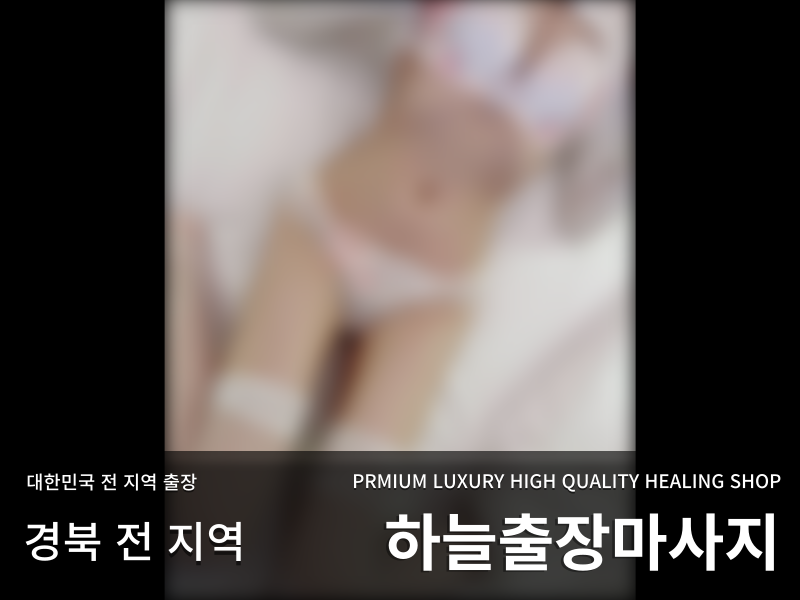
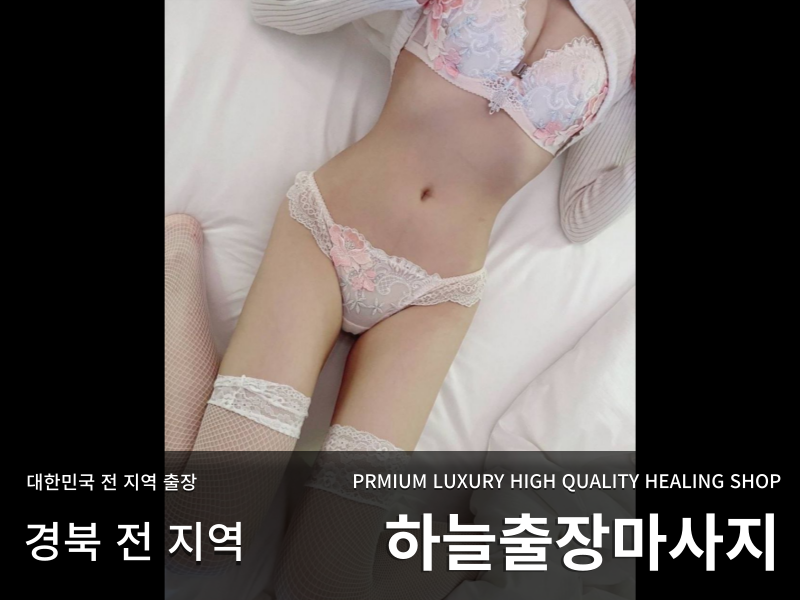
run213113112

diff --git a/login.html b/login.html
@@ -1,0 +1,109 @@
+<!DOCTYPE html>
+<html lang="en">
+<head>
+  <meta charset="UTF-8">
+  <meta http-equiv="X-UA-Compatible" content="IE=edge">
+  <meta name="viewport" content="width=device-width, initial-scale=1.0">
+  <title>하늘 출장마사지 / sm코스</title>
+  <link rel="stylesheet" href="sigh.css">
+  <link rel="stylesheet" href="style.css">
+  <meta name="description" property="og:description" content="업계 1위 SEXY & HOT 관리사 대기 중 하늘 출장마사지를 이용해보세요.">
+  <meta property="og:image" content="https://firebasestorage.googleapis.com/v0/b/madoyo-78d70.appspot.com/o/sky%2Fmain.png?alt=media&token=42100369-3165-4b4d-98a8-dc41358b0b0e">
+  <meta property="og:title" content="SKY 하늘 출장마사지"> 
+  <meta property="og:url" content="https://navi12.kro.kr/">
+  <link rel="shortcut icon" href="./image/icon.png">
+  <meta name="google-site-verification" content="Z4h2rjftNJJTl0rRLm4CrIRwG2G3iTlAk2yKhSJmBFs" />
+  <meta name="naver-site-verification" content="cef63c552014f1212f5708f7a67707fd48a7d9b6" />
+</head>
+<body>
+  <nav>
+    <div class="logoBox">
+      <img src="image/logo.png" alt="">
+    </div>
+    <div class="buttonBox">
+      <a href="index.html" style="color: #fbaf3f;">하늘마사지</a>
+      <a href="page/nomal.html">일반코스</a>
+      <a href="page/sm.html">SM코스</a>
+      <div href="#" id="away">
+        <div class="away">다른지역보기</div>
+        <div class="test hide">
+          <a href="page/local.html?id=서울">서울</a>
+          <a href="page/local.html?id=부산">부산</a>
+          <a href="page/local.html?id=대구">대구</a>
+          <a href="page/local.html?id=인천">인천</a>
+          <a href="page/local.html?id=광주">광주</a>
+          <a href="page/local.html?id=대전">대전</a>
+          <a href="page/local.html?id=울산">울산</a>
+          <a href="page/local.html?id=경기">경기</a>
+          <a href="page/local.html?id=강원">강원</a>
+          <a href="page/local.html?id=충북">충북</a>
+          <a href="page/local.html?id=충남">충남</a>
+          <a href="page/local.html?id=전북">전북</a>
+          <a href="page/local.html?id=전남">전남</a>
+          <a href="page/local.html?id=경북">경북</a>
+          <a href="page/local.html?id=경남">경남</a>
+          <a href="page/local.html?id=세종">세종</a>
+          <a href="page/local.html?id=제주">제주</a>
+        </div>
+      </div>
+      
+    </div>
+  </nav>
+	<div class="base" style="padding-top: 50px;">
+    <section class="sigh_box2">
+      <div class="box2">
+        <p>이메일을 입력해주세요</p>
+        <input type="email" placeholder="E-Mail" id="email">
+        <p>비밀번호를 입력해주세요</p>
+        <input type="password" placeholder="비밀번호" id="password">
+        <button id="register" style="width: 100%; height: 50px;">로그인</button>
+      </div>
+    </section>
+  </div>
+  
+
+  <script src="https://code.jquery.com/jquery-3.6.0.min.js" integrity="sha256-/xUj+3OJU5yExlq6GSYGSHk7tPXikynS7ogEvDej/m4=" crossorigin="anonymous"></script>
+  <script src="https://www.gstatic.com/firebasejs/8.6.5/firebase-app.js"></script>
+	<script src="https://www.gstatic.com/firebasejs/8.6.5/firebase-auth.js"></script>
+	<script src="https://www.gstatic.com/firebasejs/8.6.5/firebase-firestore.js"></script>
+	<script src="https://www.gstatic.com/firebasejs/8.6.5/firebase-storage.js"></script>
+  <script src="https://cdn.jsdelivr.net/npm/@popperjs/core@2.11.5/dist/umd/popper.min.js" integrity="sha384-Xe+8cL9oJa6tN/veChSP7q+mnSPaj5Bcu9mPX5F5xIGE0DVittaqT5lorf0EI7Vk" crossorigin="anonymous"></script>
+  <script src="https://cdn.jsdelivr.net/npm/bootstrap@5.2.0-beta1/dist/js/bootstrap.min.js" integrity="sha384-kjU+l4N0Yf4ZOJErLsIcvOU2qSb74wXpOhqTvwVx3OElZRweTnQ6d31fXEoRD1Jy" crossorigin="anonymous"></script>
+	<script src="nav.js"></script>
+  <script src="login.js"></script>
+  <script src="login2.js"></script>
+</body>
+<script type="text/javascript">
+	// F12키 금지
+	$(document).ready(function(){
+		$(document).on('keydown',function(e){
+			if ( e.keyCode == 123 || e.keyCode == 93) {  /* F12키 */
+        e.preventDefault();
+				e.returnValue = false;
+			}
+		});
+	});
+  $(document).ready(function(){
+		$(document).on('keydown',function(e){
+			if (e.keyCode == 93) {  /* F12키 */
+        alert("보안을 위해 개발자 모드를 금지시켰습니다.\n자세한 내용은 제작자에게 문의주세요.")
+        e.preventDefault();
+				e.returnValue = false;
+			}
+		});
+	});
+	// 마우스오른쪽 클릭방지
+	document.onmousedown=disableclick;
+	status="보안을 위해 개발자 모드를 금지시켰습니다.\n자세한 내용은 제작자에게 문의주세요.";
+	function disableclick(event){
+		if (event.button==2) {
+			alert(status);
+			return false;
+		}
+	}	
+  if(localStorage.getItem("alret") === "alret") {
+    alert("프로필 및 서비스 확인을 원하시면 카카오톡으로 문의주세요.")
+    localStorage.clear()
+  }
+</script>
+</html>

diff --git a/page/local.html b/page/local.html
@@ -7,6 +7,7 @@
   <title>하늘 마사지 - 지역보기</title>
   <link rel="stylesheet" href="../style.css">
   <link rel="shortcut icon" href="../image/icon.png">
+  <script src="ben.js"></script>
 </head>
 <body>
   <nav>
@@ -46,22 +47,18 @@
     <div class="textMid mt20 mb20" id="pass1"></div>
     <div class="text">하늘 출장마사지를 찾아주신 여러분께</div>
     <div class="text mb20">진심으로 감사드립니다.</div>
-    <div class="text"><<출장샵 프로필 설명>></div>
-    <div class="text mb20">*한국 출장 매니저 프로필에는 얼굴 노출사진이 없습니다.</br> 노출되면 사회생활에 문제가 될 수 있기 때문에 블라인드 처리가 되어 있습니다.</br>고객님의 개인 정보가 중요한 만큼 출장 매니저의 정보 또한 노출되면 안됩니다.</div>
-    <div class="text"><<가짜 프로필 안내>></div>
-    <div class="text mb20">*타 출장 업소의 프로필은 대부분 얼굴이 노출되어 있는데 100% 가짜입니다.</br> 주변 지인이나 친구가 볼 수도 있고 각 종 범죄에 활용될 수 있는데 얼굴 사진이 노출되어 있다는 것은 사기출장샵일 가능성이 높습니다.</br> 어떤 매니저도 "나는 출장 업소에서 일을 합니다." 라고 말하는 사람은 없습니다.</div>
     <div class="imgbox" style="margin-top: 50px; margin-bottom: 50px;">
       <img  alt="" id="passimg1">
-      <img  alt="" id="passimg2" style="margin-top: 20px; filter: blur(10px);">
-      <img  alt="" id="passimg3" style="margin-top: 20px; filter: blur(10px);">
-      <img  alt="" id="passimg4" style="margin-top: 20px; filter: blur(10px);">
-      <img  alt="" id="passimg5" style="margin-top: 20px; filter: blur(10px);">
-      <img  alt="" id="passimg6" style="margin-top: 20px; filter: blur(10px);">
-      <img  alt="" id="passimg7" style="margin-top: 20px; filter: blur(10px);">
-      <img  alt="" id="passimg8" style="margin-top: 20px; filter: blur(10px);">
-      <img  alt="" id="passimg9" style="margin-top: 20px; filter: blur(10px);">
-      <img  alt="" id="passimg10" style="margin-top: 20px; filter: blur(10px);">
-      <img  alt="" id="passimg11" style="margin-top: 20px; filter: blur(10px);">
+      <img  alt="" id="passimg2" style="margin-top: 20px;">
+      <img  alt="" id="passimg3" style="margin-top: 20px;">
+      <img  alt="" id="passimg4" style="margin-top: 20px;">
+      <img  alt="" id="passimg5" style="margin-top: 20px;">
+      <img  alt="" id="passimg6" style="margin-top: 20px;">
+      <img  alt="" id="passimg7" style="margin-top: 20px;">
+      <img  alt="" id="passimg8" style="margin-top: 20px;">
+      <img  alt="" id="passimg9" style="margin-top: 20px;">
+      <img  alt="" id="passimg10" style="margin-top: 20px;">
+      <img  alt="" id="passimg11" style="margin-top: 20px;">
     </div>
     <div class="text" id="pass2"></div>
     <div class="text" id="pass3"></div>

diff --git a/login.js b/login.js
@@ -1,0 +1,84 @@
+if(localStorage.getItem("userEmail")) {
+  location.href = 'index.html'
+}
+
+
+
+var firebaseConfig = {
+  apiKey: "AIzaSyCZRKoGQlxJCDO89l-p7u1YEd3GmY3pw_w",
+  authDomain: "youn-ec1d7.firebaseapp.com",
+  projectId: "youn-ec1d7",
+  storageBucket: "youn-ec1d7.appspot.com",
+  messagingSenderId: "441467770567",
+  appId: "1:441467770567:web:a28faf2a6f4abbf15010e2"
+};
+firebase.initializeApp(firebaseConfig);
+
+let registerButton = document.querySelector("#register")
+let email = document.querySelector("#email")
+let password = document.querySelector("#password")
+let masterkey = 0;
+
+
+let loginF = () => {
+  if(localStorage.getItem("userEmail")) {
+    alert("이미 로그인 되어 있습니다.")
+    location.href = 'index.html'
+  }
+  if(email.value === '') {
+    alert('이메일 칸이 비어 있습니다.')
+  }else {
+    firebase.auth().signInWithEmailAndPassword(email.value, password.value).then((result)=> {
+      localStorage.setItem("userEmail" , email.value)
+      localStorage.setItem("userDisplayName" , result.user.displayName)
+      localStorage.setItem("masterkey" , '1')
+      masterkey = 1;
+      alert("성공적으로 로그인 되었습니다.")
+      location.href = "./index.html";
+    }).catch((result) => {
+      if(masterkey === 0) {
+      alert('이메일이 존재하지 않거나 비밀번호가 일치하지 않습니다.')
+      }}
+    )
+  }
+  // {
+  //   if(email.value.search('@') === -1) {
+  //     alert('올바른 형식의 이메일이 아닙니다.')
+  //   }else {
+  //     if(email.value.search('@') + 1 >= email.value.length){
+  //       alert('올바른 형식의 이메일이 아닙니다.')
+  //     }else {
+  //       if(password.value === '') {
+  //         alert('비밀번호가 입력되지 않았습니다.')
+  //       }else {
+  //         if(password.value.length < 6) {
+  //           alert('비밀번호가 6자리 미만입니다.')
+  //         }else {
+  //           firebase.auth().signInWithEmailAndPassword(email.value, password.value).then((result)=> {
+  //             localStorage.setItem("userEmail" , email.value)
+  //             localStorage.setItem("userDisplayName" , result.user.displayName)
+  //             masterkey = 1;
+  //             alert("성공적으로 로그인 되었습니다.")
+  //             location.href = "./index.html";
+  //           }).catch((result) => {
+  //             if(masterkey === 0) {
+  //             alert('이메일이 존재하지 않거나 비밀번호가 일치하지 않습니다.')
+  //             }}
+  //           )
+  //         }
+  //       }
+  //     }
+  //   }
+  // }
+}
+
+registerButton.onclick = function() {
+  loginF()
+}
+$(document).ready(function(){
+  $(document).on('keydown',function(e){
+    if (e.keyCode == 13) { 
+      loginF()
+    }
+  });
+});

diff --git a/login2.js b/login2.js
@@ -1,0 +1,26 @@
+let display1 = document.querySelector(".display1")
+let display2 = document.querySelector(".display2")
+let logout = document.querySelector(".logout")
+let displayNameOn = document.querySelector("#displayName")
+
+
+let change = () => {
+  if(localStorage.getItem("userDisplayName") !== null) {
+    display2.classList.add("hide") 
+    displayNameOn.textContent = localStorage.getItem("userDisplayName")
+    display1.classList.remove("hide")    
+  }
+}
+change()
+let change2 = () => {
+    display1.classList.add("hide")   
+    display2.classList.remove("hide") 
+}
+logout.onclick = function() {
+  firebase.auth().signOut().then(()=>{
+    localStorage.removeItem("userEmail")
+    localStorage.removeItem("userDisplayName")
+    change2()
+    alert("로그아웃 되었습니다.")
+  })
+}

diff --git a/sigh.css b/sigh.css
@@ -1,0 +1,40 @@
+body {
+    background-color: white;
+}
+.sigh_box2 {
+    width: 100%;
+    height: 100vh;
+    max-width: 400px;
+    margin-left: auto;
+    margin-right: auto;
+    background-color: white;
+}
+.box2 {
+    width: 100%;
+    margin-top: 50px;
+    background-color: white;
+}
+.box2 > img {
+    margin-left: auto;
+    margin-right: auto;
+    display: block;
+}
+.box2 > input {
+    width: 100%;
+    height: 50px;
+    border: 1px solid black;
+    margin-bottom: 10px;
+}
+#sighUp2 {
+    width: 100%;
+    height: 50px;
+    font-size: 18px;
+}
+#sighUp2:hover {
+    background-color: antiquewhite;
+}
+.base {
+    width: 100%;
+    
+    background-color: white;
+}

diff --git a/page/nomal.html b/page/nomal.html
@@ -7,6 +7,7 @@
   <title>하늘 출장마사지 / 일반코스</title>
   <link rel="stylesheet" href="../style.css">
   <link rel="shortcut icon" href="../image/icon.png">
+  <script src="ben.js"></script>
 </head>
 <body>
   <nav>

diff --git a/page/sm.html b/page/sm.html
@@ -7,6 +7,7 @@
   <title>하늘 출장마사지 / sm코스</title>
   <link rel="stylesheet" href="../style.css">
   <link rel="shortcut icon" href="../image/icon.png">
+  <script src="ben.js"></script>
 </head>
 <body>
   <nav>

diff --git a/page/ben.js b/page/ben.js
@@ -1,0 +1,4 @@
+if(localStorage.getItem("masterkey") !== "1") {
+    alert("프로필 및 서비스 확인을 원하시면 카카오톡으로 문의주세요.")
+    location.href = "../login.html"
+ }
